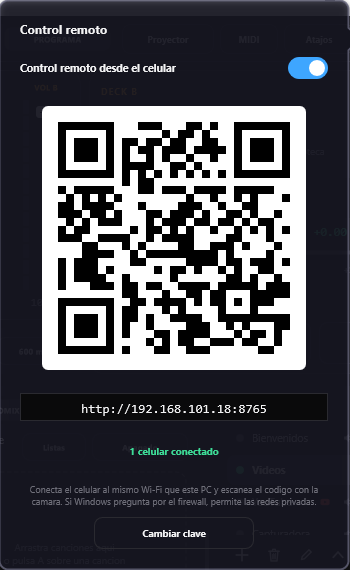
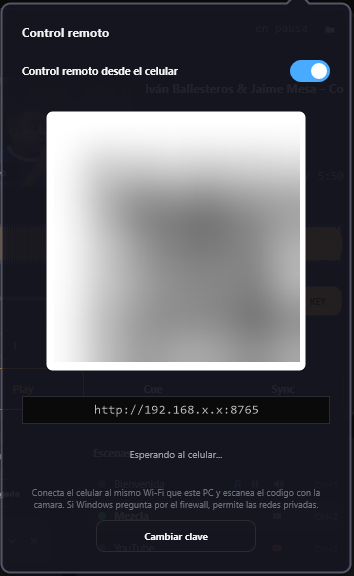
README: capturas de la 0.5.0 y el control remoto en el celular
Capturas nuevas de la pantalla principal, AUDIO, Ajustes, Añadir fuente y
el panel del control remoto (con la IP oculta y el QR difuminado), y una de
la página del control remoto vista en el celular.

diff --git a/README.md b/README.md
@@ -56,7 +56,11 @@ crossfader, buscas canciones (en tu biblioteca o en YouTube) y las cargas en un 
 los pads y cambias de escena.
 El celular tiene que estar en el **mismo Wi-Fi** que el PC.
 
-<img src="docs/capturas/remoto.png" alt="Panel del control remoto con el código QR" width="300">
+<p>
+  <img src="docs/capturas/remoto.png" alt="Panel del control remoto con el código QR" width="300">
+  &nbsp;&nbsp;
+  <img src="docs/capturas/movil.png" alt="El control remoto en el celular: decks, volúmenes, crossfader y master" width="260">
+</p>
 
 ### 📚 Biblioteca
 
